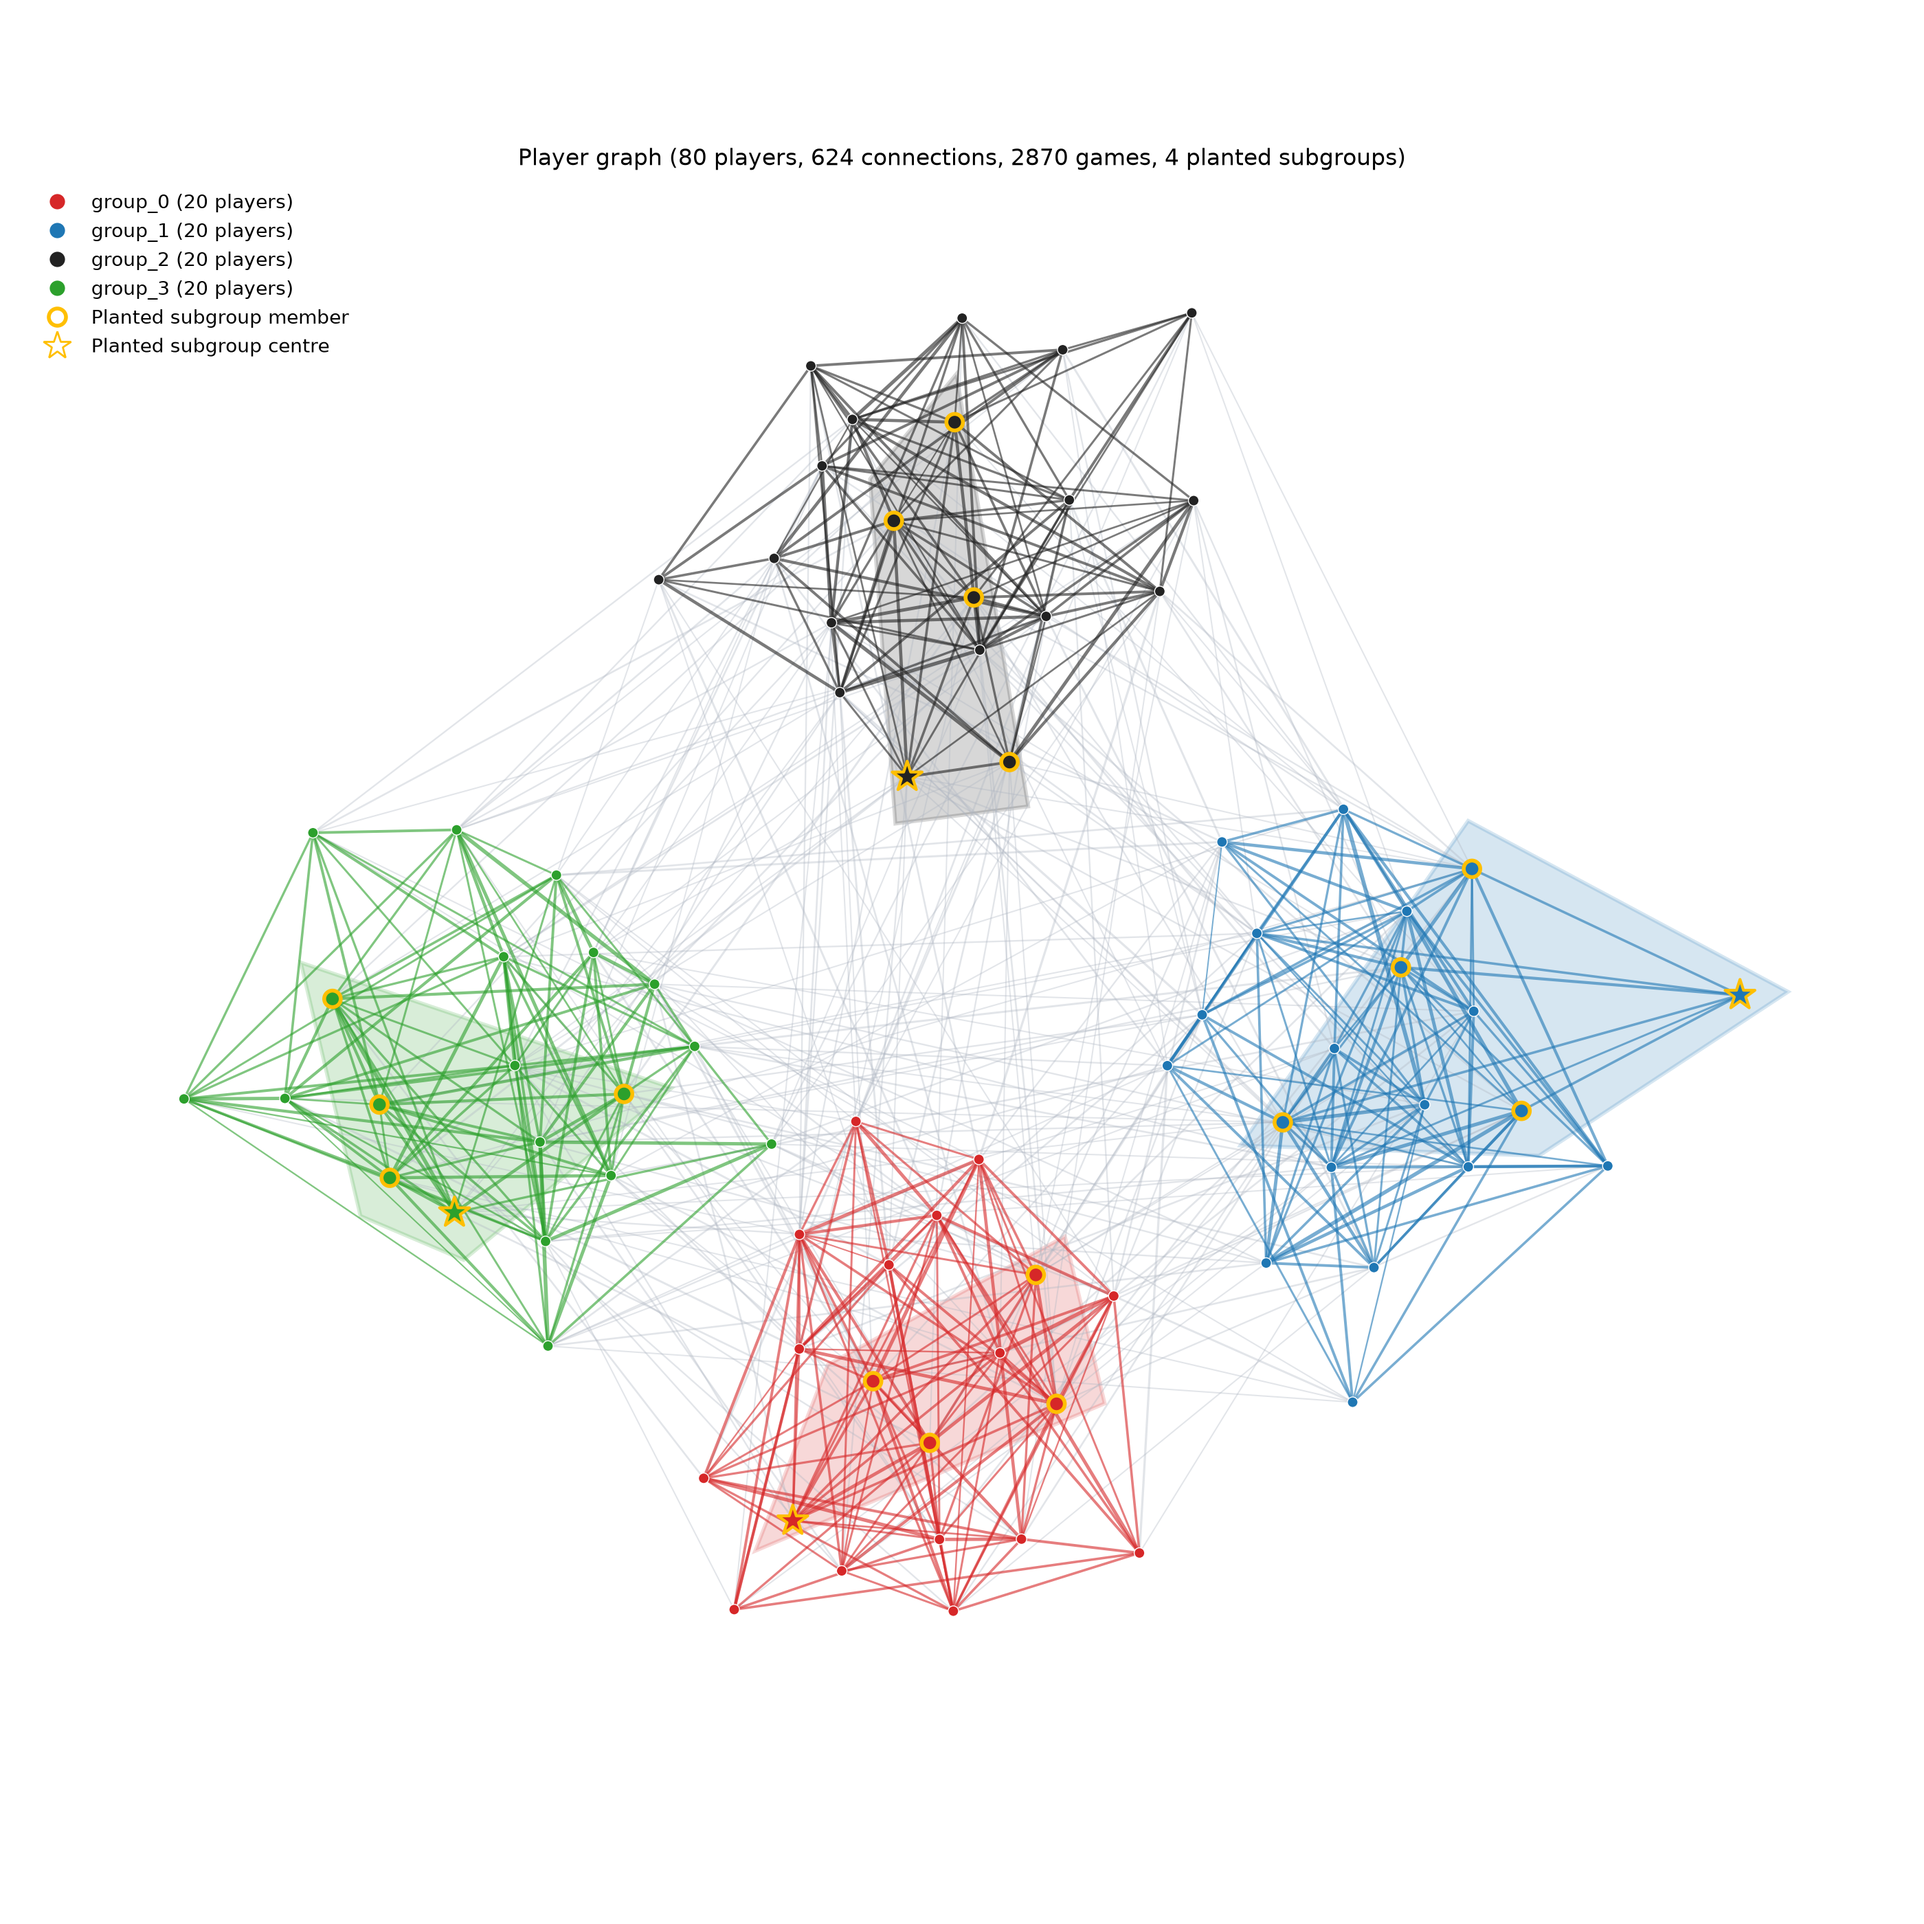
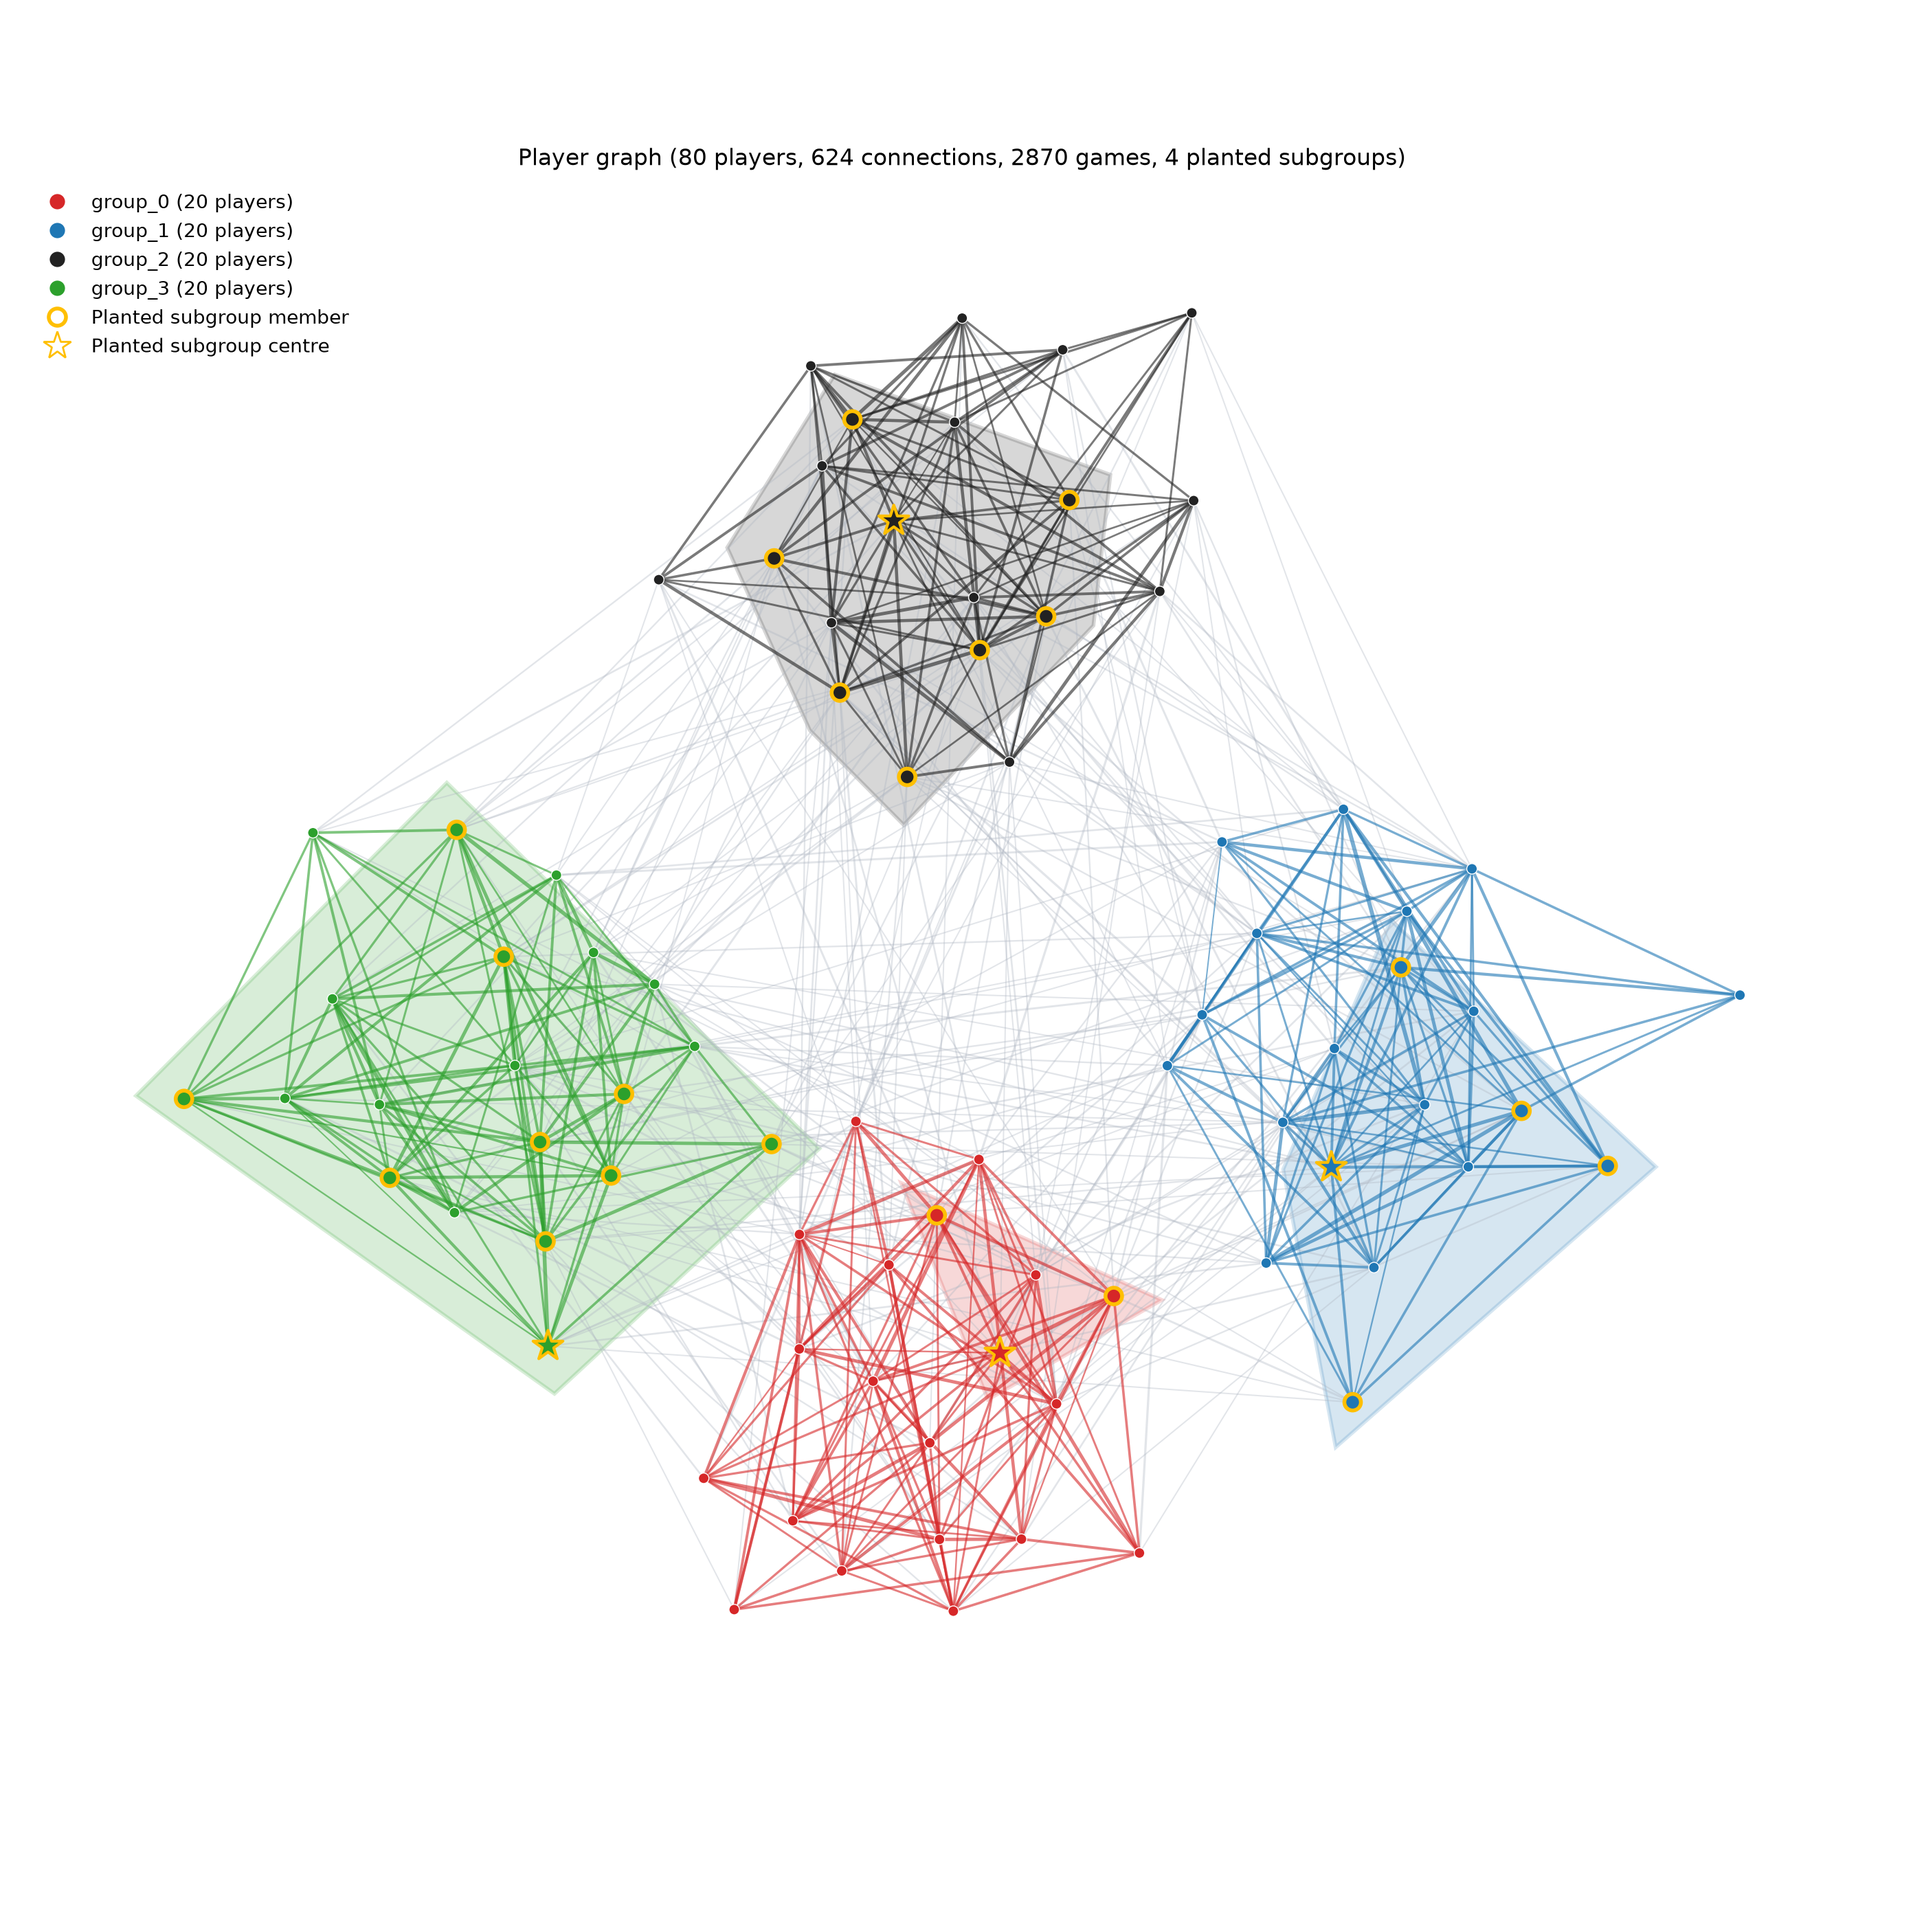
fix path bug

diff --git a/fake_node_generator/main.py b/fake_node_generator/main.py
@@ -1,4 +1,4 @@
-from database import Database
+from database import Database, RESULT_DIR
 from configuration import Configuration
 from tools.graph_visualizer import visualize_graph
 
@@ -21,7 +21,7 @@ def main():
         planted_subgroups=main_db.planted_subgroups,
         seed=configuration.get_sbm_seed(),
         show_edge_labels=False,
-        save_path="result/graph.png",
+        save_path=RESULT_DIR / "graph.png",
     )
 
 
